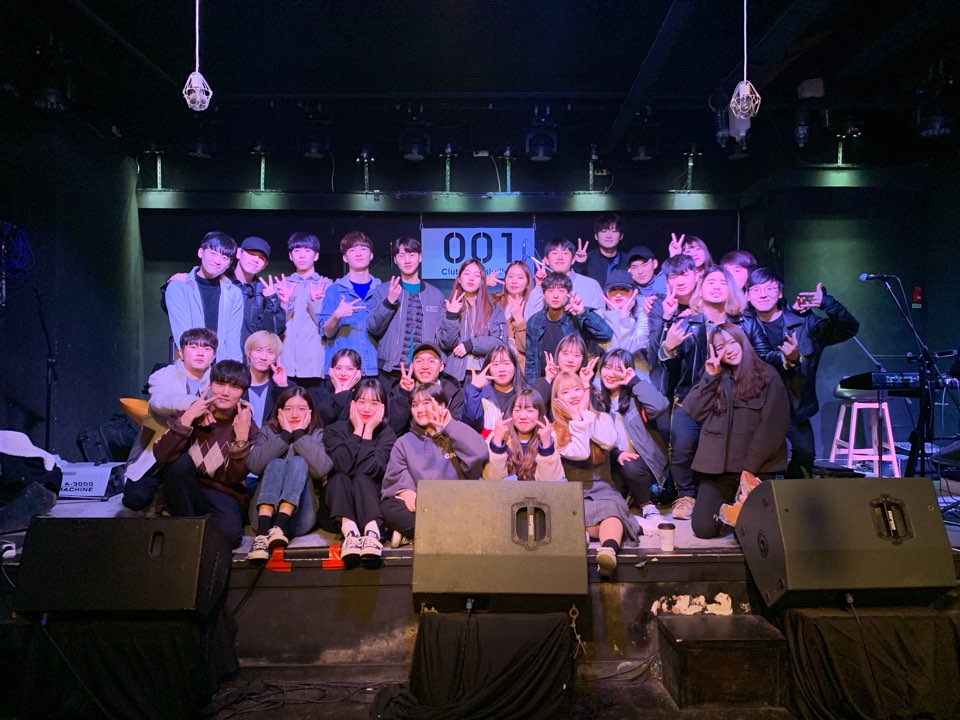
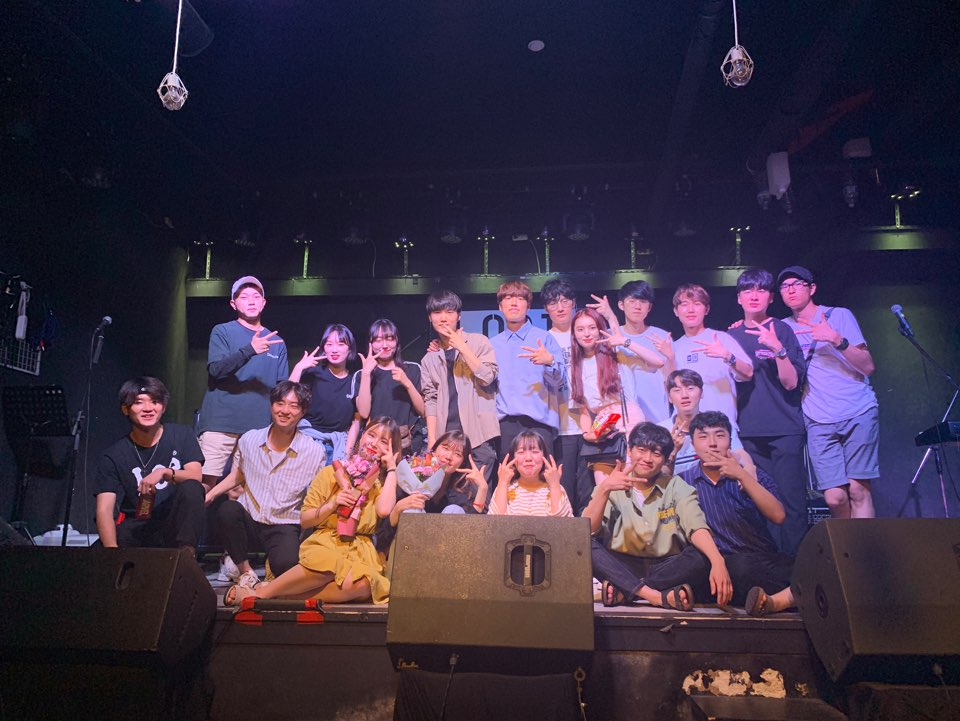
Design: 이미지 파일 수정

diff --git a/homepage/src/pages/about/ImageSlider.tsx b/homepage/src/pages/about/ImageSlider.tsx
@@ -11,6 +11,8 @@ export default function ImageSlider() {
     "/assets/images/about/concert3.jpg",
     "/assets/images/about/concert4.jpg",
     "/assets/images/about/concert5.jpg",
+    "/assets/images/about/concert6.jpg",
+    "/assets/images/about/concert7.jpg",
   ];
 
   const zoomInProperties = {
